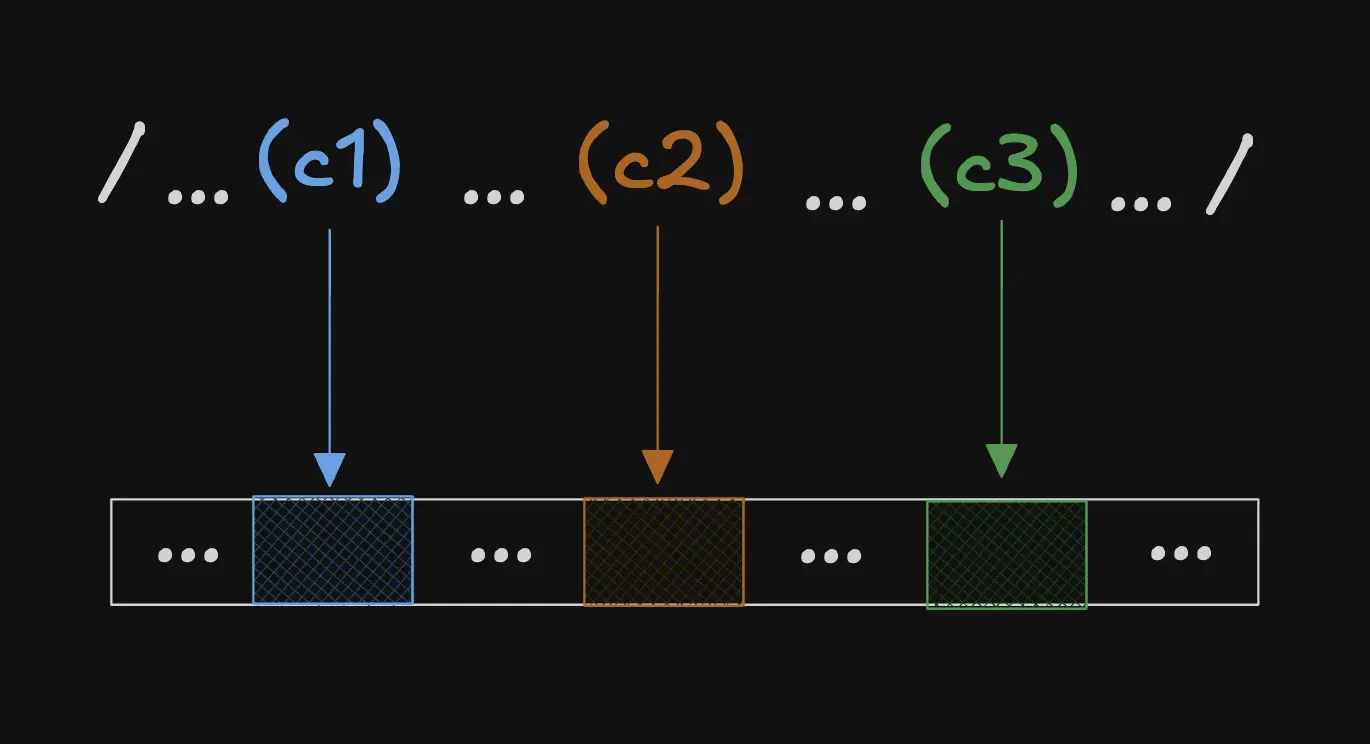
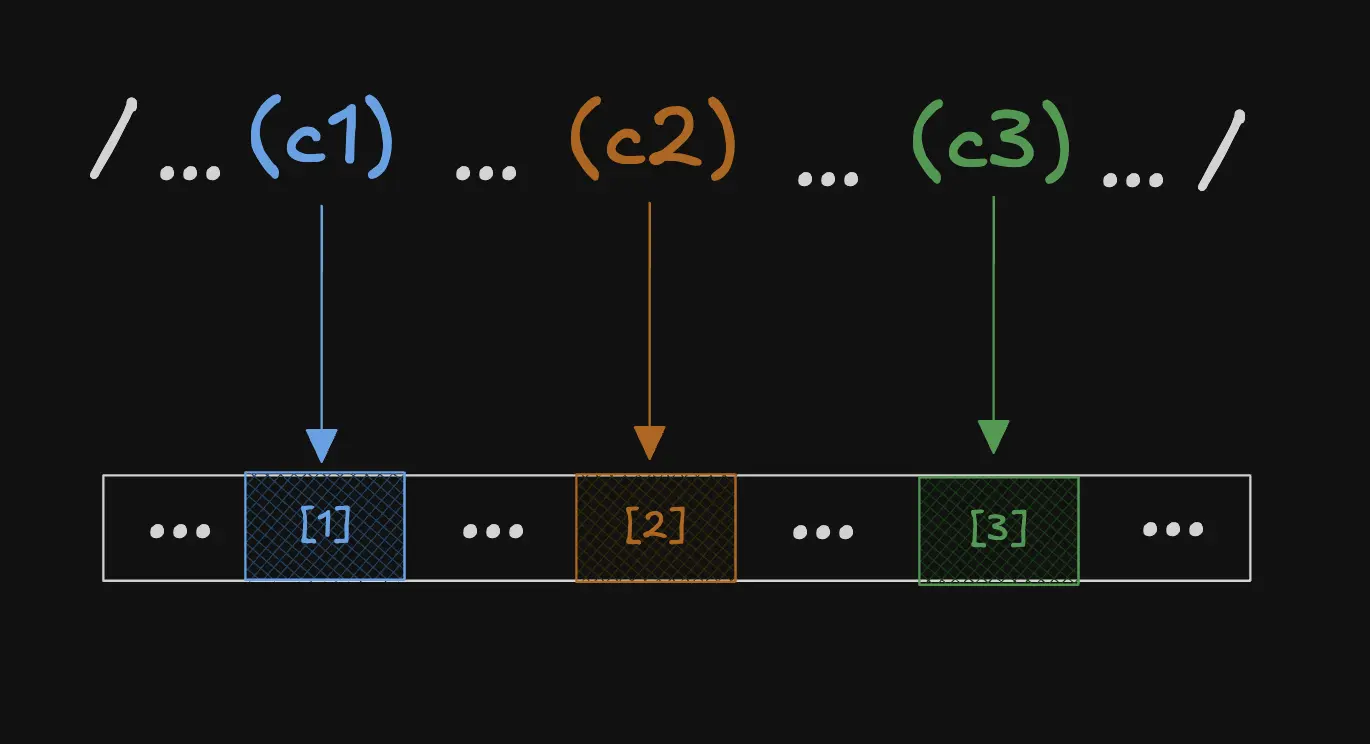
add code for backreference

diff --git a/content/articles/irregular-javascript-expressions.md b/content/articles/irregular-javascript-expressions.md
@@ -32,37 +32,70 @@ Essentially, to understand why JavaScript regular expressions are not regular *i
 
 Backreferences allow us to refer to submatches of previously defined capturing groups in any JavaScript regular expression.
 
-Syntactically, a capturing group looks like `(pattern)` in some parent regular expression `/...(pattern).../`. Suppose that a string S matches that parent. In such a case, the capturing group `(pattern)` segments (i.e. captures) a substring of S that matches its defined pattern. That substring is called the capturing group's submatch. A JavaScript regular expression may contain multiple capturing groups. In such cases, capturing groups are in a one-to-one relation with their submatches.
+Syntactically, a capturing group looks like `(pattern)` in some parent regular expression `/...(pattern).../`. Suppose that a string M matches `/...(pattern).../`. In such a case, the capturing group `(pattern)` segments (i.e. captures) a substring (of M) that matches its defined pattern. That substring is called the capturing group's submatch. 
+
+A JavaScript regular expression may contain multiple capturing groups. In such a case, these capturing groups are in a one-to-one relation to their submatches. As illustrated below, if some string of form `...[1]...[2]...[3]...` matches a regular expression of form `/...(c1)...(c2)...(c3).../`, then the capturing groups `(c1)`, `(c2)` and `(c3)` are in a one-to-one relation to the submatches `[1]`, `[2]` and `[3]`respectively.
 
 ![Capturing groups in JS](/images/irregular-javascript-expressions/capturing_groups_in_js.webp)
 
-We can run the `RegExp.prototype.exec()` function to see this one-to-one relation. For example, given `/(a)(b)/` and a matching string `'ab'`, running `/(a)(b)/.exec("ab")` returns the array `[ 'ab', 'a', 'b', index: 0, input: 'ab', groups: undefined ]`. Its "1th" element `'a'` relates to the first capturing group `(a)`. Similarly, its "2th" element `'b'` relates to the second group `(b)`.
+In JavaScript, we can run the `RegExp.prototype.exec()` function to see this one-to-one relation. For example, given `/(a)(b)/` and a matching string `'ab'`, running `/(a)(b)/.exec("ab")` returns the array `[ 'ab', 'a', 'b', index: 0, input: 'ab', groups: undefined ]`. Its first element `'a'` relates to the first capturing group `(a)`. Similarly, its second element `'b'` relates to the second group `(b)`.
 
-With backreferences, we do not need to write the same capturing groups multiple times.
+With backreferences, we can refer to such submatches. Syntactically, a backreference has the format `\N` where `N` is a positive whole number referencing some previously occuring coapturing group. For example, we can add backreferences to the aforementioned regular expression `/(a)(b)/` like `/(a)(b)\2\1\2/`. To clarify, the backreference `\1` refers to any submatch of the capturing group `(a)`. Similarly, the two backreferences `\2` both refer to any submatch of the capturing group `(b)`. 
 
-It memorises the value of that submatch
+For example, the string `'abbab'` matches the regular expression `/(a)(b)\2\1\2/`. This is because the submatch of `(a)` is `'a'` and the submatch `(b)` of is `'b'`. So, `\1` refers to `'a'` and `\2` refers to `'b'`. Intuitively, in this case, `/(a)(b)\2\1\2/` becomes equivalent to `/(a)(b)bab/`.
 
-Let's look at some code as examples. Syntactically, a backreference has the format `\N` where `N` is a positive whole number referencing some previously occuring coapturing group. For example, in the regex `/(a)(b)\2\1\2/`, we have two capturing groups: firstly, `(a)`. Secondly, `(b)`. So, in our regex, the backreferece `\1` is refering to whatever value would have matched the first capturing group `(a)`. Morevoer, the two backreferences `\2` both refer to whatever value has matched the second capturing group `(b)`. For example, `/(a)(b)\2\1\2/` would match the string `'abbab'`. In this case, the first backreference is the first `'a'` while the second backreference is the `'b'`. However, the regex would not march a string like `'abaab'` since the value at the first backreference does not match the value of the first capturing group. To see this clearer, imagine `/(\d+)a\1/`. This. In other words, we have kept the value of the digit in memory and then matched it afterwards. If there was another number at the backreference spot, there would be not match.
-
-Given this, a useful case for
-
-For example, we can dynamically capture HTML tag elements with a capturing group. This is helpful as I do not need to specify a whole list of potential HTML tags that need to be matched on both sides. We just know that a match is any HTML tag as log as it respects the format.
+To demonstrate the usefulness of backreferences, consider the following simple HTML tag parser `parseHtmlTags`. Its goal is to capture any piece of valid HTML tag in the form `<xyz>...</xyz>` in some arbitrary string.
 
 ```js
-function parseTitle(metastring) {
-  return metastring.match(/title=(["'])(.*?)\1/)[2];
+function parseHtmlTags(input) {
+  // Capturing group (\w+) captures the tag name
+  // \1 is a backreference that must match the same text as group 1
+  const regex = /<(\w+)>(.*?)<\/\1>/g;
+  const matches = [];
+  let match;
+  while ((match = regex.exec(input)) !== null) {
+    matches.push({
+      fullMatch: match[0],
+      tagName: match[1],
+      content: match[2]
+    });
+  }
+  return matches;
 }
 
-parseTitle('title="foo"'); // 'foo'
-parseTitle("title='foo' lang='en'"); // 'foo'
-parseTitle('title="Named capturing groups\' advantages"');
+// Examples
+parseHtmlTags("<p>Hello world</p>");
+// returns [
+//    { 
+//        "fullMatch": '<p>Hello world</p>', 
+//        "tagName": 'p', 
+//        "content": 'Hello world' 
+//    }
+// ]
+
+parseHtmlTags("<div>content</div> and <span>text</span>");
+// returns [
+//     {
+//         "fullMatch": "<div>content</div>",
+//         "tagName": "div",
+//         "content": "content"
+//     },
+//     {
+//         "fullMatch": "<span>text</span>",
+//         "tagName": "span",
+//         "content": "text"
+//     }
+// ]
+
+parseHtmlTags("<p>mismatched</div>");
+// returns []
 ```
+
+we can dynamically parse HTML tag elements with a capturing group. This is helpful as I do not need to specify a whole list of potential HTML tags that need to be matched on both sides. We just know that a match is any HTML tag as log as it respects the format.
 
 ### 1.2 Conceptual Analysis
 
-Intuitively, backreferences requires memory. We somehow need to be able to capture a group and refer back to it while at the same time know its current value. For example, in the HTML tag regex, we need to know what kind of tag we've matched at runtime. Say that we've matched a picture tag, we need to have the value picture in memory to match it later to with. 
-
-JavaScript regular expressions rely on memory during computation.
+Intuitively, for a backreference to refer to a capturing group's submatch, we have to store the value of that submatch in memory to later reference it. In the aforementioned HTML tag parser example, if the capturing group's submatch is `'p'` (in the tag `<p>`), we need to store the value `'p'`, so that the backreference `\1` may refer to it. So, backreferences rely on memory. A fortiori, JavaScript regular expressions rely on memory.
 
 ## 1. The Theory Behind Regular Expressions
 
